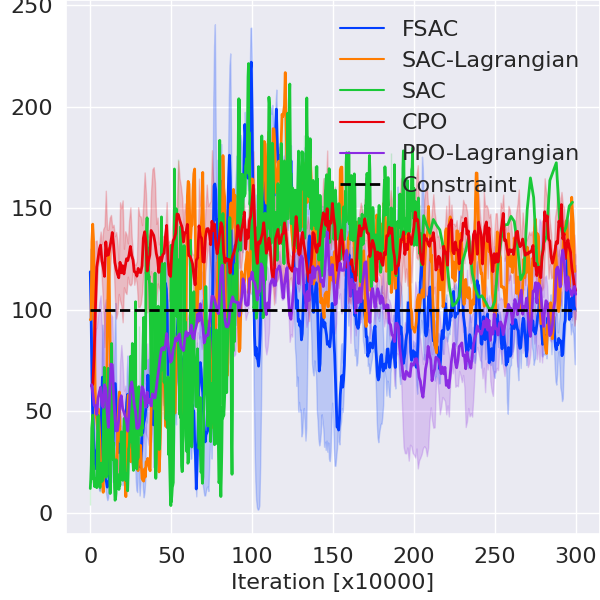
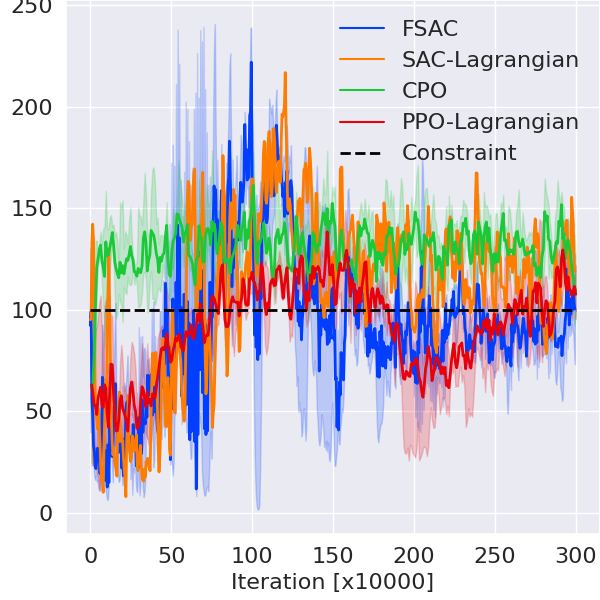
update lineplot

Changed region(s): [[0.15, 0.06, 0.96, 0.84]]

diff --git a/train_scripts/train_script4fsac.py b/train_scripts/train_script4fsac.py
@@ -95,7 +95,7 @@ def built_FSAC_parser():
     parser.add_argument('--optimizer_type', type=str, default='OffPolicyAsyncWithCost') # SingleProcessOffPolicy OffPolicyAsyncWithCost
     parser.add_argument('--off_policy', type=str, default=True)
     parser.add_argument('--random_seed', type=int, default=2)
-    parser.add_argument('--penalty_start', type=int, default=1200000)
+    parser.add_argument('--penalty_start', type=int, default=300000)
     parser.add_argument('--demo', type=bool, default=False)
 
     # env
@@ -111,8 +111,8 @@ def built_FSAC_parser():
     parser.add_argument('--gradient_clip_norm', type=float, default=10.)
     parser.add_argument('--lam_gradient_clip_norm', type=float, default=3.)
     parser.add_argument('--num_batch_reuse', type=int, default=1)
-    parser.add_argument('--cost_lim', type=float, default=80.0)
-    parser.add_argument('--mlp_lam', default=True) # True: fsac, false: sac-lagrangian todo: add to new algo
+    parser.add_argument('--cost_lim', type=float, default=30.0)
+    parser.add_argument('--mlp_lam', default=False) # True: fsac, false: sac-lagrangian todo: add to new algo
     parser.add_argument('--double_QC', type=bool, default=False)
 
     # worker
@@ -121,7 +121,7 @@ def built_FSAC_parser():
     parser.add_argument('--explore_sigma', type=float, default=None)
 
     # buffer
-    parser.add_argument('--max_buffer_size', type=int, default=500000)
+    parser.add_argument('--max_buffer_size', type=int, default=50000)
     parser.add_argument('--replay_starts', type=int, default=3000)
     parser.add_argument('--replay_batch_size', type=int, default=1024)
     parser.add_argument('--replay_alpha', type=float, default=0.6)
@@ -143,15 +143,15 @@ def built_FSAC_parser():
     parser.add_argument('--value_num_hidden_layers', type=int, default=2)
     parser.add_argument('--value_num_hidden_units', type=int, default=256)
     parser.add_argument('--value_hidden_activation', type=str, default='elu')
-    parser.add_argument('--value_lr_schedule', type=list, default=[8e-5, 1000000, 1e-6])
-    parser.add_argument('--cost_value_lr_schedule', type=list, default=[8e-5, 1000000, 1e-6])
+    parser.add_argument('--value_lr_schedule', type=list, default=[8e-5, 800000, 1e-6])
+    parser.add_argument('--cost_value_lr_schedule', type=list, default=[8e-5, 800000, 1e-6])
     parser.add_argument('--policy_model_cls', type=str, default='MLP')
     parser.add_argument('--policy_num_hidden_layers', type=int, default=2)
     parser.add_argument('--policy_num_hidden_units', type=int, default=256)
     parser.add_argument('--policy_hidden_activation', type=str, default='elu')
     parser.add_argument('--policy_out_activation', type=str, default='linear')
-    parser.add_argument('--policy_lr_schedule', type=list, default=[3e-5, 500000, 1e-6])
-    parser.add_argument('--lam_lr_schedule', type=list, default=[5e-6, 100000, 1e-6])
+    parser.add_argument('--policy_lr_schedule', type=list, default=[3e-5, 400000, 1e-6])
+    parser.add_argument('--lam_lr_schedule', type=list, default=[5e-6, 200000, 1e-6])
     parser.add_argument('--alpha', default='auto')  # 'auto' 0.02
     alpha = parser.parse_args().alpha
     if alpha == 'auto':
@@ -162,7 +162,7 @@ def built_FSAC_parser():
     parser.add_argument('--target', type=bool, default=True)
     parser.add_argument('--tau', type=float, default=0.005)
     parser.add_argument('--delay_update', type=int, default=2)
-    parser.add_argument('--dual_ascent_interval', type=int, default=6)
+    parser.add_argument('--dual_ascent_interval', type=int, default=4)
     parser.add_argument('--deterministic_policy', type=bool, default=False)
     parser.add_argument('--action_range', type=float, default=1.0)
     parser.add_argument('--mu_bias', type=float, default=0.0)
@@ -179,13 +179,13 @@ def built_FSAC_parser():
 
     # Optimizer (PABAL)
     parser.add_argument('--max_sampled_steps', type=int, default=0)
-    parser.add_argument('--max_iter', type=int, default=1200000)
+    parser.add_argument('--max_iter', type=int, default=1000000)
     parser.add_argument('--num_workers', type=int, default=NUM_WORKER)
     parser.add_argument('--num_learners', type=int, default=NUM_LEARNER)
     parser.add_argument('--num_buffers', type=int, default=NUM_BUFFER)
     parser.add_argument('--max_weight_sync_delay', type=int, default=300)
     parser.add_argument('--grads_queue_size', type=int, default=25)
-    parser.add_argument('--grads_max_reuse', type=int, default=4)
+    parser.add_argument('--grads_max_reuse', type=int, default=8)
     parser.add_argument('--eval_interval', type=int, default=10000) # 1000
     parser.add_argument('--save_interval', type=int, default=200000) # 200000
     parser.add_argument('--log_interval', type=int, default=100) # 100
@@ -193,8 +193,8 @@ def built_FSAC_parser():
     # IO
     time_now = datetime.datetime.now().strftime("%Y-%m-%d-%H-%M-%S")
     env_id = parser.parse_args().env_id
-    task = env_id.split('-')[1]
-    results_dir = '../results/FSAC/{task}/{experiment}-{time}'.format(task=task[:-1],
+    task = env_id.split('-')[1] if env_id.startswith('Safexp') else env_id.split('-')[0]
+    results_dir = '../results/SAC-Lagrangian/{task}/{experiment}-{time}'.format(task=task[:-1],
                                                                       experiment=task,
                                                                       time=time_now)
     parser.add_argument('--result_dir', type=str, default=results_dir)

diff --git a/evaluator.py b/evaluator.py
@@ -296,10 +296,11 @@ class EvaluatorWithCost(object):
         velo_list = []
         qc_list = []
         lam_list = []
+        ep_discounted_cost = 0
         obs = self.env.reset()
         if render: self.env.render()
         if steps is not None:
-            for _ in range(steps):
+            for t in range(steps):
                 processed_obs = self.preprocessor.tf_process_obses(obs)
                 action = self.policy_with_value.compute_mode(processed_obs)
                 if self.args.demo:
@@ -318,6 +319,7 @@ class EvaluatorWithCost(object):
                 reward_list.append(reward[0])
                 info_list.append(info[0])
                 velo_list.append(velo)
+                ep_discounted_cost += self.args.cost_gamma ** t * velo
         else:
             while not done:
                 processed_obs = self.preprocessor.tf_process_obses(obs)
@@ -360,7 +362,8 @@ class EvaluatorWithCost(object):
                               episode_velo_mean=episode_velo,
                               episode_velo_std=std_velo,
                               episode_velo_max=max_velo,
-                              episode_velo_min=min_velo))
+                              episode_velo_min=min_velo,
+                              episode_cost=ep_discounted_cost))
         return info_dict
 
     def run_n_episodes(self, n):
@@ -473,8 +476,9 @@ class EvaluatorWithCost(object):
             episode_velo_std = episode_info['episode_velo_std']
             episode_velo_max = episode_info['episode_velo_max']
             episode_velo_min = episode_info['episode_velo_min']
-            key_list.extend(['episode_velo_mean', 'episode_velo_std', 'episode_velo_max', 'episode_velo_min'])
-            value_list.extend([episode_velo_mean, episode_velo_std, episode_velo_max, episode_velo_min])
+            episode_cost = episode_info['episode_cost']
+            key_list.extend(['episode_velo_mean', 'episode_velo_std', 'episode_velo_max', 'episode_velo_min','episode_cost'])
+            value_list.extend([episode_velo_mean, episode_velo_std, episode_velo_max, episode_velo_min, episode_cost])
         return dict(zip(key_list, value_list))
 
     def set_weights(self, weights):
@@ -537,7 +541,7 @@ def test_evaluator():
     evaluator.run_evaluation(3)
 
 def read_metrics():
-    metrics = np.load('/home/mahaitong/PycharmProjects/mpg/results/FSAC/PointGoal/PointGoal2-2021-04-28-01-16-21/logs/tester/test-2021-05-04-01-26-19/n_metrics_list_ite3000000.npy'
+    metrics = np.load('/home/mahaitong/PycharmProjects/mpg/results/FSAC/v/v3-2021-05-10-17-02-05/logs/tester/test-2021-05-10-23-30-41/n_metrics_list_ite800000.npy'
                       , allow_pickle=True)
     print(metrics)
     ep_cost = []

diff --git a/train_scripts/test_script4fsac.py b/train_scripts/test_script4fsac.py
@@ -29,7 +29,7 @@ from optimizer import OffPolicyAsyncOptimizer, SingleProcessOffPolicyOptimizer, 
 from policy import PolicyWithQs, PolicyWithMu
 from tester import Tester
 from trainer import Trainer
-from worker import OffPolicyWorker, OffPolicyWorkerWithCost
+from worker import  OffPolicyWorkerWithCost
 
 logger = logging.getLogger(__name__)
 logging.basicConfig(level=logging.INFO)
@@ -37,7 +37,7 @@ logging.basicConfig(level=logging.INFO)
 
 os.environ['TF_CPP_MIN_LOG_LEVEL'] = '3'
 os.environ['OMP_NUM_THREADS'] = '1'
-NAME2WORKERCLS = dict([('OffPolicyWorker', OffPolicyWorker),
+NAME2WORKERCLS = dict([
                        ('OffPolicyWorkerWithCost', OffPolicyWorkerWithCost)])
 NAME2LEARNERCLS = dict([('MPG', MPGLearner),
                         ('AMPC', AMPCLearner),
@@ -68,18 +68,18 @@ def built_FSAC_parser():
     mode = parser.parse_args().mode
 
     if mode == 'testing':
-        test_dir = '../results/SAC/PointPush/PointPush1-2021-05-07-13-41-58'
+        test_dir = '../results/FSAC/v/v3-2021-05-10-17-02-05'
         params = json.loads(open(test_dir + '/config.json').read())
         time_now = datetime.datetime.now().strftime("%Y-%m-%d-%H-%M-%S")
         test_log_dir = params['log_dir'] + '/tester/test-{}'.format(time_now)
         params.update(dict(test_dir=test_dir,
-                           test_iter_list=[3000000],
+                           test_iter_list=[800000],
                            test_log_dir=test_log_dir,
-                           num_eval_episode=50,
+                           num_eval_episode=5,
                            num_eval_agent=1,
                            eval_log_interval=1,
                            fixed_steps=1000,
-                           eval_render=False,
+                           eval_render=True,
                            demo=False))
         for key, val in params.items():
             parser.add_argument("-" + key, default=val)

diff --git a/learners/sac.py b/learners/sac.py
@@ -293,7 +293,7 @@ class SACLearnerWithCost(object):
                                   (np.minimum(target_Q1_of_tp1, target_Q2_of_tp1)-alpha*logp_tp1.numpy())
 
 
-        processed_cost = self.batch_data['batch_velos']
+        processed_cost = self.preprocessor.tf_process_rewards(self.batch_data['batch_velos']).numpy()
         # target_QC_of_tp1 = processed_cost + self.args.cost_gamma * self.policy_with_value.compute_QC1_target(processed_obs_tp1, act_tp1).numpy()
         if self.args.double_QC:
             processed_cost = self.batch_data['batch_costs']
@@ -309,7 +309,7 @@ class SACLearnerWithCost(object):
     def compute_td_error(self):
         processed_obs = self.preprocessor.tf_process_obses(self.batch_data['batch_obs']).numpy()  # n_step*obs_dim
         processed_rewards = self.preprocessor.tf_process_rewards(self.batch_data['batch_rewards']).numpy()
-        processed_cost = self.batch_data['batch_velos']
+        processed_cost = self.preprocessor.tf_process_rewards(self.batch_data['batch_velos']).numpy()
         processed_obs_tp1 = self.preprocessor.tf_process_obses(self.batch_data['batch_obs_tp1']).numpy()
 
         values_t = self.policy_with_value.compute_Q1(processed_obs, self.batch_data['batch_actions']).numpy()

diff --git a/data_process/lineplot.py b/data_process/lineplot.py
@@ -61,7 +61,7 @@ def help_func():
     tag2plot = ['episode_return']
     alg_list = ['FSAC','SAC-Lagrangian', 'CPO', 'PPO-Lagrangian'] # 'SAC',
     lbs = ['FSAC','SAC-Lagrangian', 'CPO', 'PPO-Lagrangian'] # 'SAC',
-    task = ['PointGoal']
+    task = ['CarGoal']
     #todo: CarGoal: sac
     #todo: CarButton: sac choose better fac
     # todo: CarPush: ???
@@ -99,8 +99,6 @@ def plot_eval_results_of_all_alg_n_runs(dirs_dict_for_plot=None):
                             for v in event.summary.value:
                                 t = tf.make_ndarray(v.tensor)
                                 for tag in tag2plot:
-                                    if task == 'CarGoal' and int(event.step) >= 2900000:
-                                        continue
                                     if tag == v.tag[11:]:
                                         data_in_one_run_of_one_alg[tag].append((1-SMOOTHFACTOR)*data_in_one_run_of_one_alg[tag][-1] + SMOOTHFACTOR*float(t)
                                                                                if data_in_one_run_of_one_alg[tag] else float(t))

diff --git a/preprocessor.py b/preprocessor.py
@@ -42,15 +42,15 @@ class RunningMeanStd(object):
     def update_from_moments(self, batch_mean, batch_var, batch_count):
         self.mean, self.var, self.count = update_mean_var_count_from_moments(
             self.mean, self.var, self.count, batch_mean, batch_var, batch_count)
-        self.tf_mean.assign(tf.constant(self.mean))
-        self.tf_var.assign(tf.constant(self.var))
+        self.tf_mean.assign(tf.constant(self.mean, dtype=tf.float32))
+        self.tf_var.assign(tf.constant(self.var, dtype=tf.float32))
 
     def set_params(self, mean, var, count):
         self.mean = mean
         self.var = var
         self.count = count
-        self.tf_mean.assign(tf.constant(self.mean))
-        self.tf_var.assign(tf.constant(self.var))
+        self.tf_mean.assign(tf.constant(self.mean, dtype=tf.float32))
+        self.tf_var.assign(tf.constant(self.var, dtype=tf.float32))
 
     def get_params(self, ):
         return self.mean, self.var, self.count

diff --git a/optimizer.py b/optimizer.py
@@ -448,7 +448,7 @@ class OffPolicyAsyncOptimizerWithCost(object):
                 if ppc_params and \
                         (self.args.obs_ptype == 'normalize' or self.args.rew_ptype == 'normalize'):
                     learner.set_ppc_params.remote(ppc_params)
-                    self.local_worker.set_ppc_params(ppc_params)
+                    self.local_worker.set_ppc_params(ray.get(ppc_params))
                 if weights is None:
                     weights = ray.put(self.local_worker.get_weights())
                 learner.set_weights.remote(weights)
